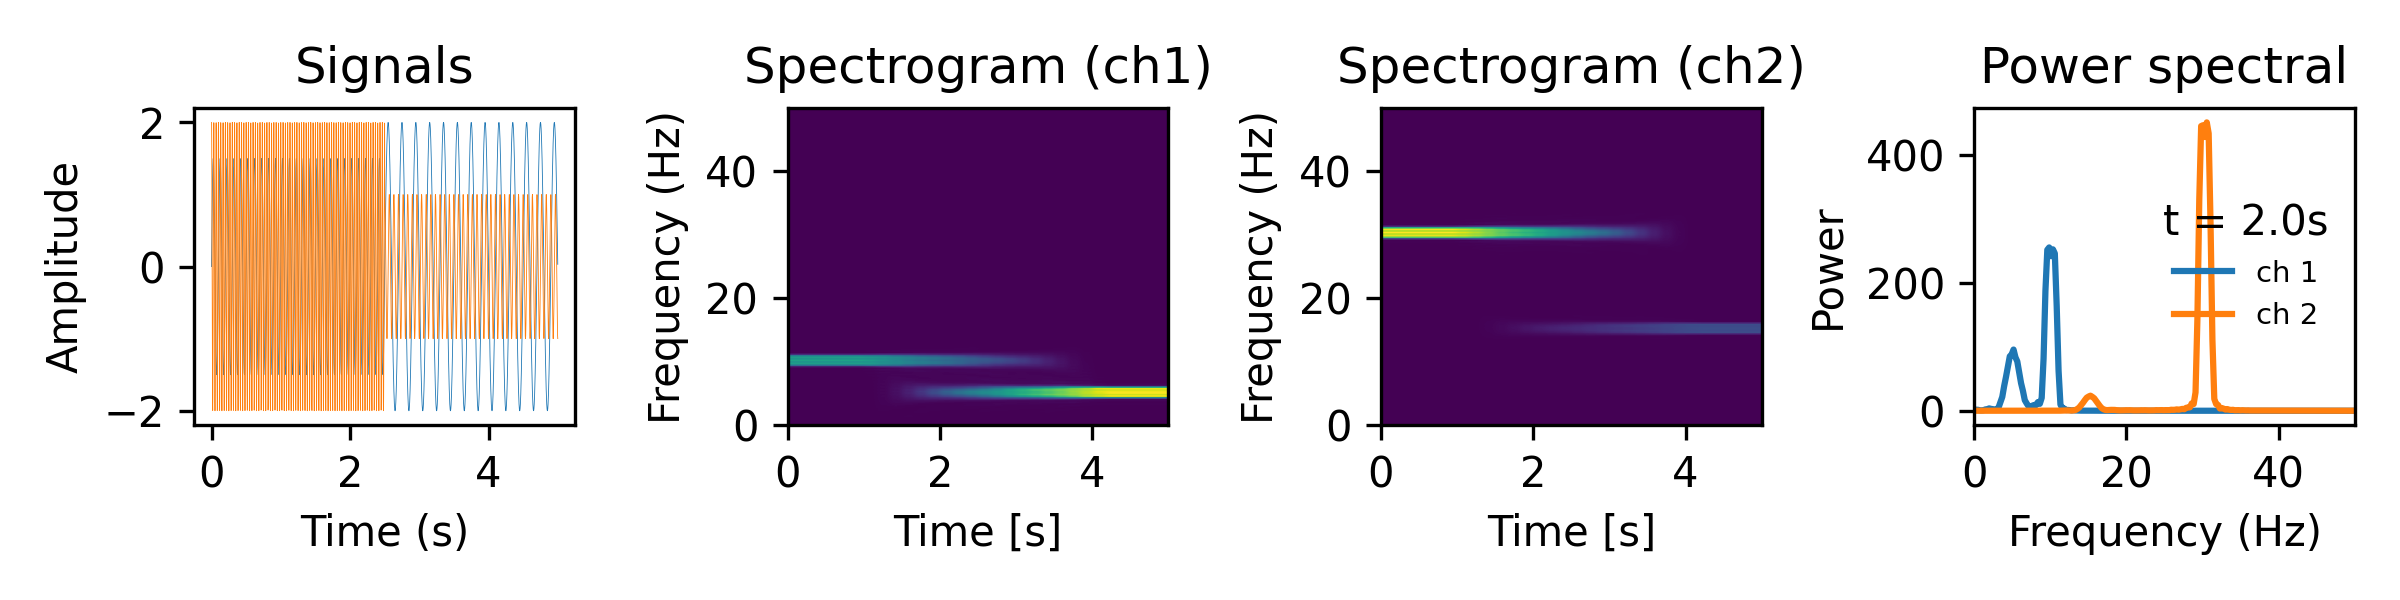
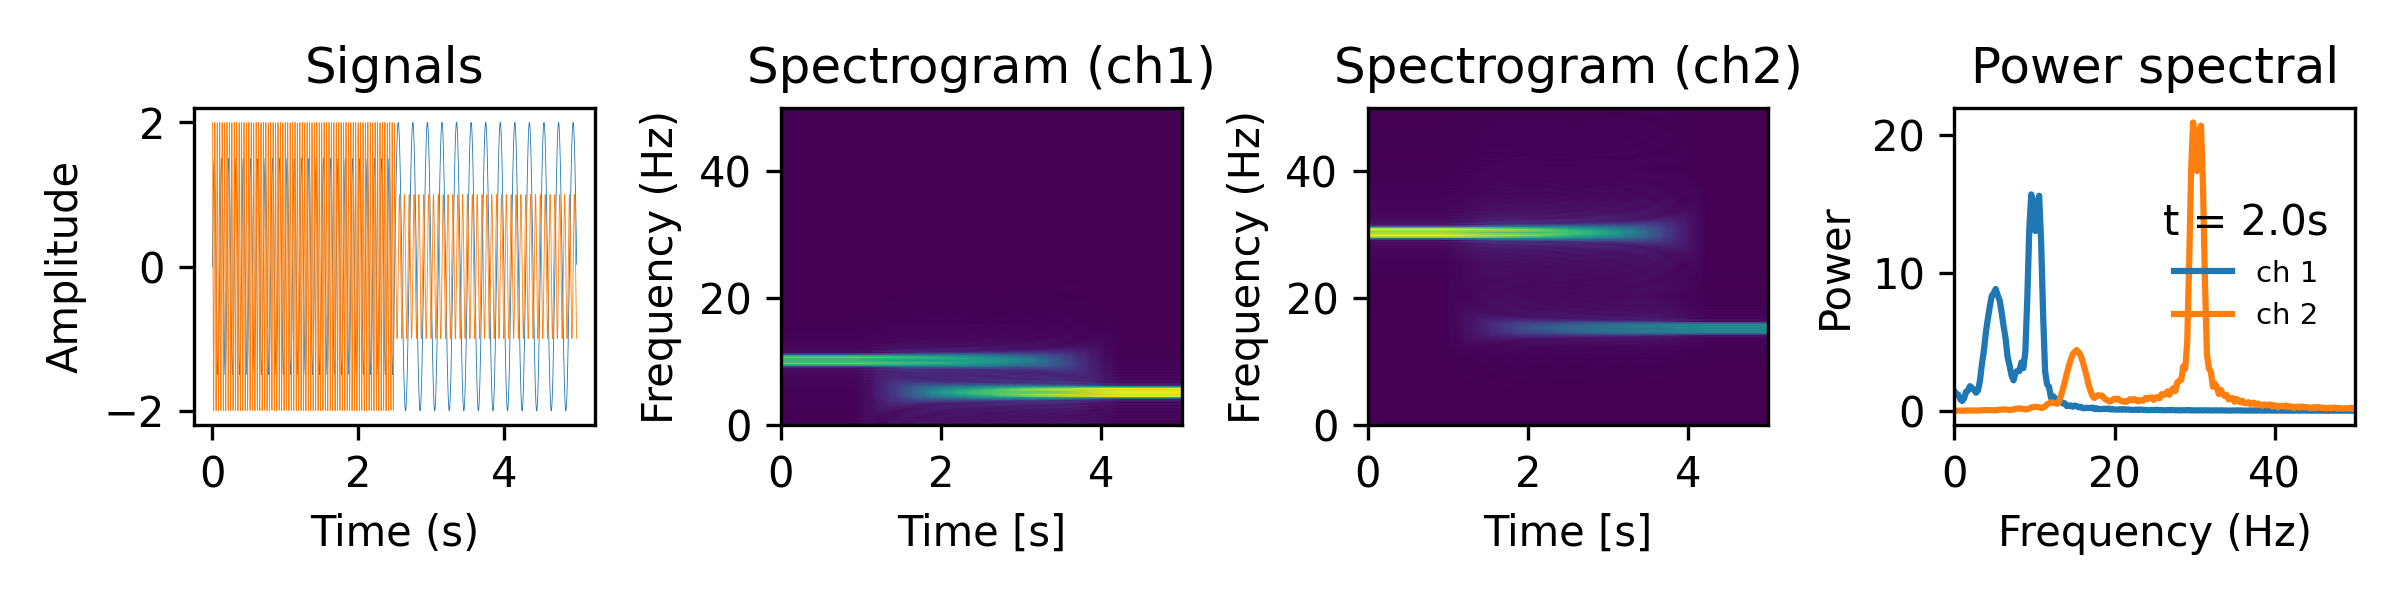
vectorize mt_tfr

diff --git a/aopy/analysis/base.py b/aopy/analysis/base.py
@@ -817,7 +817,7 @@ def get_sgram_multitaper(data, fs, win_t, step_t, nw=None, bw=None, adaptive=Fal
 
     return fxx, txx, Sxx
 
-def calc_mt_tfr(ts_data, n, p, k, fs, step=None, fk=None, pad=2, ref=True, dtype='float64'):
+def calc_mt_tfr(ts_data, n, p, k, fs, step=None, fk=None, pad=2, ref=True, complex_output=False, dtype='float64'):
     '''
     Compute multitaper time-frequency estimate from multichannel signal input. This code is adapted from the Pesaran lab `tfspec`.    
     
@@ -839,6 +839,9 @@ def calc_mt_tfr(ts_data, n, p, k, fs, step=None, fk=None, pad=2, ref=True, dtype
                     If you only analyze single channel data, this has to be False.
                     This paper discuss referencing scheme
                     https://iopscience.iop.org/article/10.1088/1741-2552/abce3c
+        complex_output (bool): if True, return the complex signal instead of magnitude.
+                               Default False.
+        dtype (str): dtype of the output. Default 'float64'
                        
     Returns:
         tuple: Tuple containing:
@@ -947,15 +950,14 @@ def calc_mt_tfr(ts_data, n, p, k, fs, step=None, fk=None, pad=2, ref=True, dtype
             win_data = (ts_data[:,step_size*iwin:step_size*iwin+win_size]).T
         
         # Compute power for each taper
-        power = 0
-        for ik in range(k):
-            tapers_ik = tapers[:,ik].reshape(-1,1) # keep the dimension for broadcast
-            fk_data = fft(tapers_ik*win_data, nf, axis=0) # tapers_ik.shape:(win_size,1), win_data.shape:(win_size,nch)
-            fk_data = fk_data[int(nfk[0]):int(nfk[1]),:] # extract a part of frequency components
-            power += fk_data*fk_data.conj()
-        power = power/k # average power across number of tapers.   
-        spec[:,iwin,:] = power.real  # Power is already real at this time, but still have 0j part.
-    
+        tapers_ik = tapers[:, :, np.newaxis]  # Shape: (win_size, k, 1)
+        win_data_reshaped = win_data[:, np.newaxis, :]  # Shape: (win_size, 1, nch)
+        fk_data = np.fft.fft(tapers_ik * win_data_reshaped, nf, axis=0)  # Shape: (nf, k, nch)
+        if complex_output:
+            spec[:,iwin,:] = np.mean(fk_data[int(nfk[0]):int(nfk[1]), :, :], axis=1)
+        else:
+            spec[:,iwin,:] = np.mean(np.abs(fk_data[int(nfk[0]):int(nfk[1]), :, :]), axis=1).real
+
     t = np.arange(nwin)*step + n/2 # Center of each window is time axis
     
     return f, t, spec
